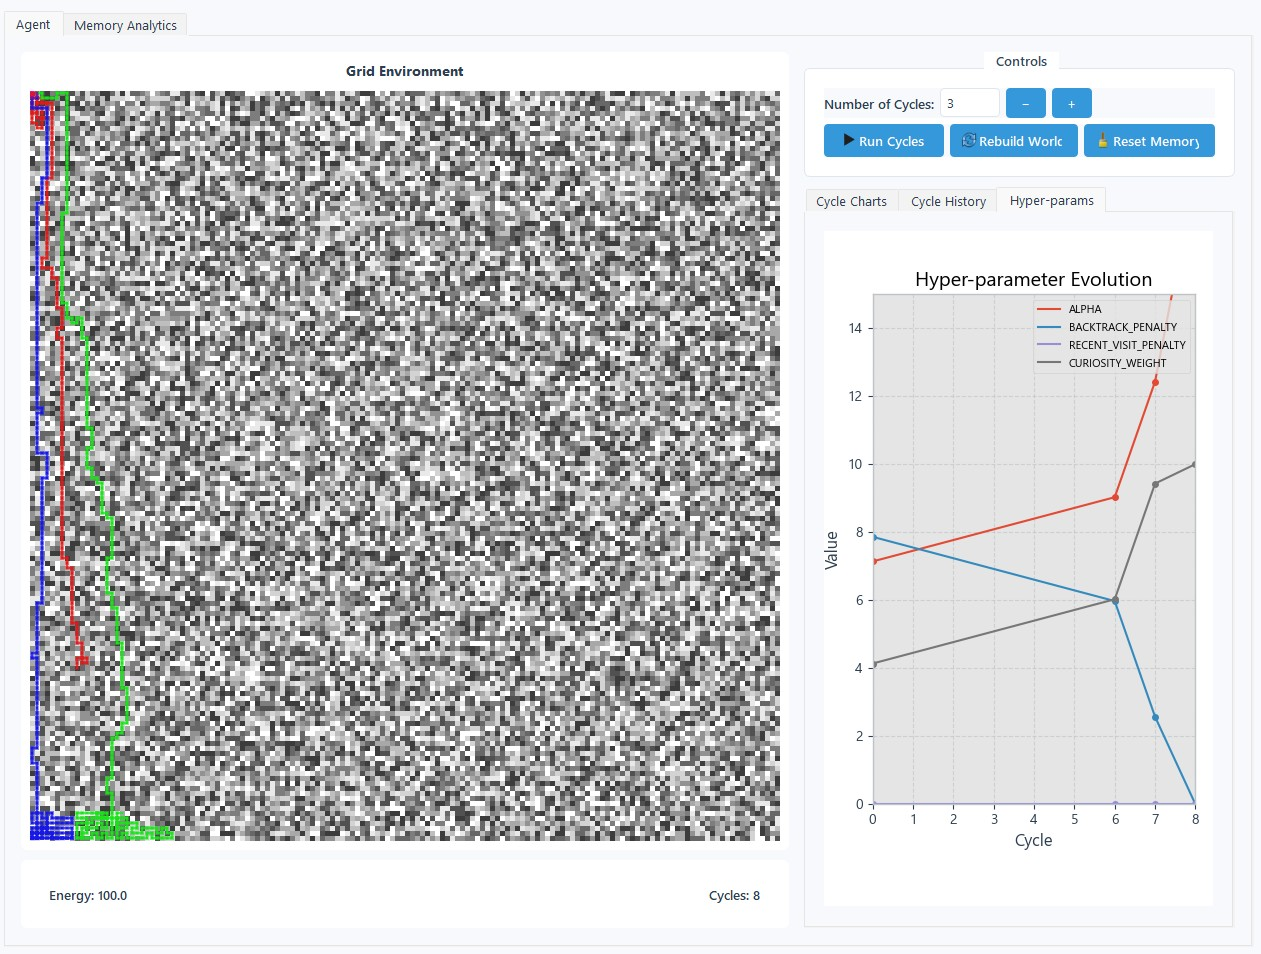
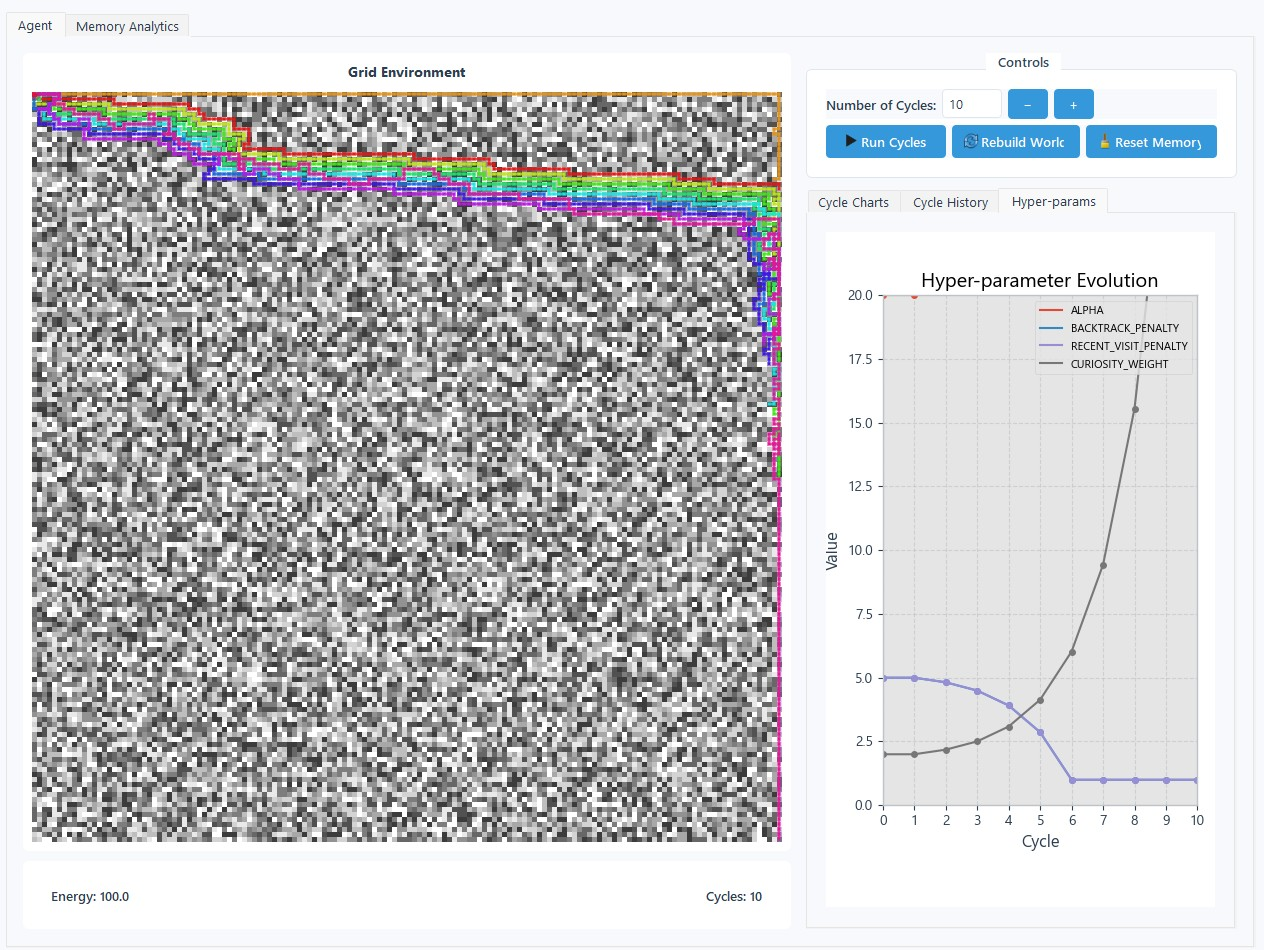
rework of hyper-param evo

diff --git a/module_agent.py b/module_agent.py
@@ -27,14 +27,16 @@ MEMORY_PATH = os.path.join(save_dir, "memory.npy")
 CYCLE_PATH = os.path.join(save_dir, "cycles.npy")
 HYPER_PATH = os.path.join(save_dir, "hyper.json")
 
-ALPHA = 5  # reward-vs-cost weight
+ALPHA = 20 # reward-vs-cost weight
+BACKTRACK_PENALTY = 5 # strong penalty for stepping straight back
+RECENT_VISIT_PENALTY = 5 # per‑occurrence penalty inside sliding window
+CURIOSITY_WEIGHT = 2
+
+
 CELL_KEY_DIM = 12  # increased to store more context around cell
 CELL_CAPACITY = 4096  # hopfield slots for cell memories
-BACKTRACK_PENALTY = 10.0   # strong penalty for stepping straight back
-RECENT_VISIT_PENALTY =  2.0   # per‑occurrence penalty inside sliding window
-
 RECENT_WINDOW = 20   # how many recent steps to look at
-CURIOSITY_WEIGHT = 2
+
 
 def euclidean(a: Coord, b: Coord) -> float:
     return math.hypot(a[0] - b[0], a[1] - b[1])
@@ -365,13 +367,20 @@ class Agent:
         # Existing calculations...
         cost = self._estimate_cost(world, position, cell)
         surprise = self.memory.get_expected_surprise(cell) or 0.0
+        
         goal_dist = euclidean(cell, goal)
-        oscillation_penalty = 0.0
-        if self._prev_pos and cell == self._prev_pos:
-            oscillation_penalty += BACKTRACK_PENALTY
+        prev_dist = euclidean(self._prev_pos, goal) if self._prev_pos else 0.0
+        retreat_penalty = 0.0
+        
+        if self._prev_pos:
+            if cell == self._prev_pos:
+                retreat_penalty += (BACKTRACK_PENALTY * 1)
+            if prev_dist < goal_dist:
+                retreat_penalty += (BACKTRACK_PENALTY * 1)
+            
         recent_visits = self._cycle_steps[-RECENT_WINDOW:]
         revisit_count = sum(1 for p in recent_visits if p == cell)
-        oscillation_penalty += RECENT_VISIT_PENALTY * revisit_count
+        retreat_penalty += RECENT_VISIT_PENALTY * revisit_count
         
         # **Curiosity bonus**
         query = self.memory._encode_cell(world, self.origin, goal, position, cell, self.energy)
@@ -381,7 +390,7 @@ class Agent:
         score = (
             cost
             + surprise
-            + oscillation_penalty
+            + retreat_penalty
             - ALPHA * (1.0 / (goal_dist + 1.0))
             - curiosity_bonus  # **subtract to favor moves to uncertain contexts**
         )
@@ -392,25 +401,17 @@ class Agent:
         x, y = self.position
         neighbors = world.get_neighbors(x, y)
         goal = (world.width - 1, world.height - 1)
-        
+
         # Evaluate all neighbors
         moves = []
         for nx, ny in neighbors:
             cell = (nx, ny)
             score = self._evaluate_move(world, self.position, cell, goal)
             moves.append((cell, score))
-        
+
         # Sort by score (lower is better)
         moves.sort(key=lambda m: m[1])
         
-        # Add some randomization for exploration
-        # Choose from the top 3 moves with decreasing probability
-        if len(moves) >= 3 and random.random() < 0.2:
-            weights = [0.6, 0.3, 0.1]  # 60% best, 30% second best, 10% third best
-            choices = [moves[i][0] for i in range(min(3, len(moves)))]
-            return random.choices(choices, weights=weights[:len(choices)])[0]
-        
-        # Default to best move
         return moves[0][0] if moves else self.position
 
     def execute_step(self, world: GridWorld, repaint_cb=None):
@@ -534,18 +535,18 @@ class HyperScheduler:
     """
     def __init__(self):
         self.params = dict(
-            ALPHA                = 5.0,
-            BACKTRACK_PENALTY    = 10.0,
-            RECENT_VISIT_PENALTY =  2.0,
-            CURIOSITY_WEIGHT     =  2.0,
+            ALPHA = ALPHA,
+            BACKTRACK_PENALTY = BACKTRACK_PENALTY,
+            RECENT_VISIT_PENALTY = RECENT_VISIT_PENALTY,
+            CURIOSITY_WEIGHT = CURIOSITY_WEIGHT,
         )
         self.step      = {k: 0.10 for k in self.params} # initial delta
         self.momentum  = 0.8
         self.bounds    = {
-            "ALPHA":                (0.5, 20),
-            "BACKTRACK_PENALTY":    (0.0, 20),
-            "RECENT_VISIT_PENALTY": (0.0, 10),
-            "CURIOSITY_WEIGHT":     (0.0, 10),
+            "ALPHA":                (1.0, 50),
+            "BACKTRACK_PENALTY":    (1.0, 50),
+            "RECENT_VISIT_PENALTY": (1.0, 50),
+            "CURIOSITY_WEIGHT":     (1.0, 50),
         }
 
         self.best_score  = None        # score of the best param-set so far

diff --git a/module_hyperparam_evo.py b/module_hyperparam_evo.py
@@ -23,7 +23,7 @@ class HyperParamEvolutionWidget(QtWidgets.QWidget):
         self.axes.grid(True, linestyle="--", alpha=0.6)
 
         self.axes.set_xlim(0, 10) # Default X-axis range
-        self.axes.set_ylim(0, 15) # Default Y-axis range
+        self.axes.set_ylim(0, 20) # Default Y-axis range
         self.axes.xaxis.set_major_locator(ticker.MaxNLocator(integer=True))
         self.canvas.draw_idle()
 
@@ -71,5 +71,5 @@ class HyperParamEvolutionWidget(QtWidgets.QWidget):
             line.set_data([], [])
         # restore default limits so the next point is visible
         self.axes.set_xlim(0, 10)
-        self.axes.set_ylim(0, 15)
+        self.axes.set_ylim(0, 20)
         self.canvas.draw_idle()

diff --git a/app_main.py b/app_main.py
@@ -364,7 +364,7 @@ class AgentWindow(QtWidgets.QMainWindow):
         self.step_history: List[list] = []
         self.timer = QtCore.QTimer(self)
         self.timer.timeout.connect(self.update_canvas)
-        self.timer.start(200)
+        self.timer.start(100)
         
         self.update_canvas()
         self.update_charts()

diff --git a/OUTLINE.md b/OUTLINE.md
@@ -38,8 +38,6 @@ The agent evaluates all neighboring cells using:
 ### Move Scoring Formula:
 score = cost + surprise + penalty - ALPHA * (1.0 / (goal_dist + 1.0)) - CURIOSITY_WEIGHT * uncertainty
 
-Includes **20% chance of randomized exploration** from the top 3 scored moves.
-
 ---
 
 ## 3. Execution Loop

diff --git a/README.md b/README.md
@@ -42,7 +42,6 @@ score = cost + surprise + penalty - α(1/(goal_dist + 1)) - curiosity_bonus
 
 * Curiosity = variance in Hopfield prediction
 * Penalty = backtracking or repeated visits
-* Random exploration = 20% chance to pick from top 3 moves
 
 ### Restore Rule
 
